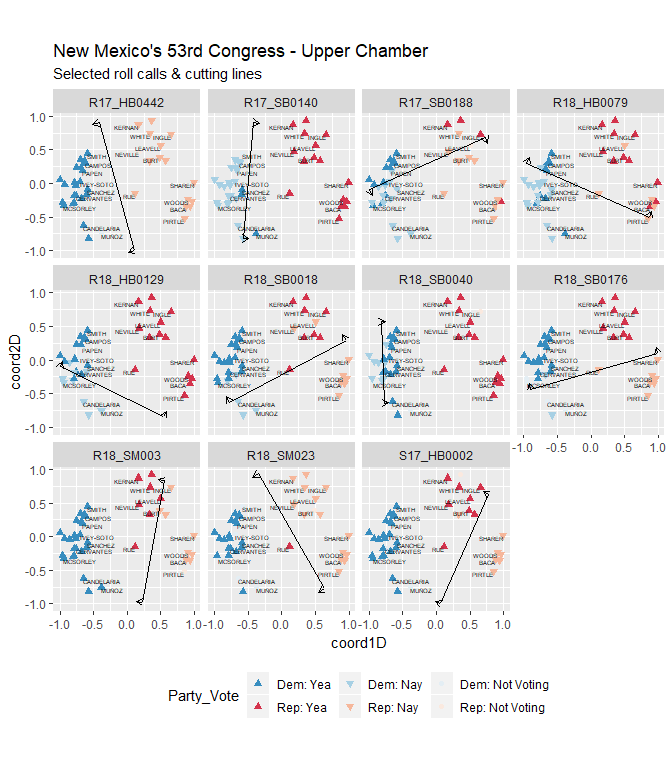
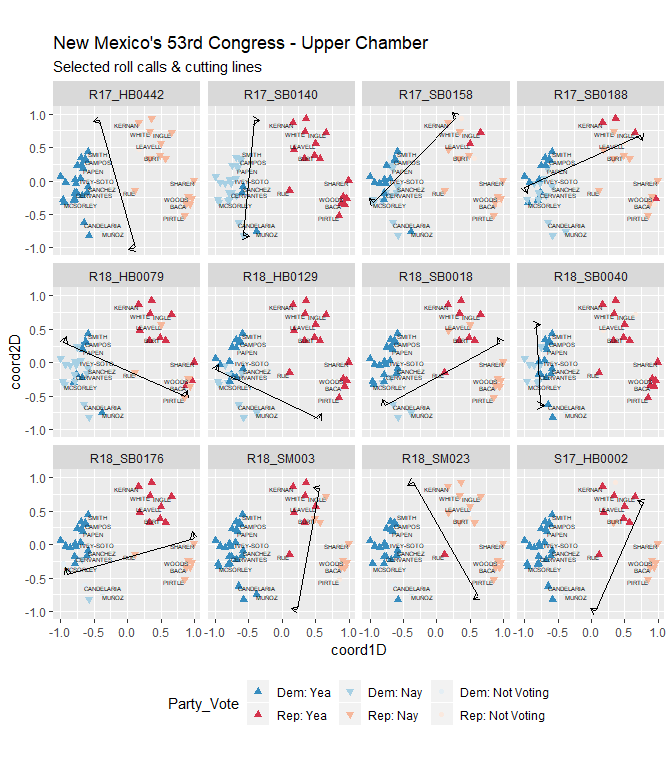
re

diff --git a/README.md b/README.md
@@ -239,7 +239,7 @@ View multiple roll calls.
 #select_cuts <- with_cuts$Bill_Code[112:123]
 select_cuts <- c('R18_HB0129', 'R18_SB0018', 'R18_SB0176', 'R18_SM023',
                  'R18_SB0040', 'S17_HB0002', 'R18_SM003', 'R17_SB0188', 
-                 'R18_HB0079', 'R17_HB0442', 'R17_0158', 'R17_SB0140')
+                 'R18_HB0079', 'R17_HB0442', 'R17_SB0158', 'R17_SB0140')
 
 sub <- nmlegisdatr::nml_rollcall %>%
   filter(Bill_Code %in% select_cuts) %>%
